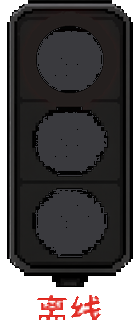
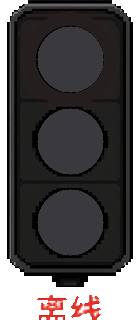
Recolour the whole bulb, not just the pure black core
The first pass matched only (0,0,0). Each bulb carries a two-to-three pixel rim
of dark-but-not-black pixels from the original antialiasing, and that rim stayed
black, so the grey shape read as a chewed, lopsided circle rather than a lens.

It now works from the three known centres and a radius of 33, recolouring anything
inside a bulb that is dark at all. Verified per state: no dark pixels remain inside
any bulb circle, and the lit bulb is left untouched apart from a handful of edge
pixels.

diff --git a/tools/recolor_unlit.py b/tools/recolor_unlit.py
@@ -1,12 +1,15 @@
 #!/usr/bin/env python3
 """把「没亮的灯泡」从纯黑改成深灰。
 
-原来是纯黑 (0,0,0)，和灯罩边框的暗色几乎融在一起，看不出那里是个灯泡。
-改成偏冷的深灰，既不像亮着，又能看出灯泡的形状。
+灯罩是暖调的深灰 (36,31,30)，原来未亮的灯泡是纯黑，两者几乎融在一起。
 
-做法：按行投影找出「大片纯黑」的团块（就是没亮的灯泡），
-      用质心 + 半径把它圈出来，只在这个圆里改色。
-      边框、阴影那些零散的纯黑不受影响。
+⚠ 第一版只改精确的 (0,0,0)，结果灯泡边缘有一圈「深灰但不是纯黑」的
+抗锯齿像素（(8,7,7)、(2,2,2) 之类）留了下来 —— 视觉上就像一颗被啃掉边的圆，
+也就是「灯泡变形」。所以这里改成按【圆形范围 + 暗度】判定：
+在灯泡圆内、且足够暗的像素，全部统一成同一个灰。
+
+灯泡位置是固定的三个圆心，半径按实测：
+    中心 x=70   y=59 / 141 / 222   半径 33
 """
 
 from __future__ import annotations
@@ -16,52 +19,34 @@ import sys
 import numpy as np
 from PIL import Image
 
-BULB_GREY = (58, 58, 62)   # 偏冷的深灰，跟暖色调灯罩拉开一点
-MIN_BLOB_ROWS = 20         # 连续这么高的黑区才算灯泡
-THRESHOLD = 128            # alpha 阈值
+BULB_GREY = (58, 58, 62)    # 偏冷深灰，和暖调灯罩拉开层次
+BULB_CENTERS = [(70, 59), (70, 141), (70, 222)]
+BULB_RADIUS = 33
+DARK_MAX = 70               # 三通道最大值低于它算「灯泡的暗部」
+THRESHOLD = 128             # alpha 阈值
 
 
 def recolor(im: Image.Image) -> tuple[Image.Image, int]:
     a = np.array(im.convert("RGBA"))
     h, w, _ = a.shape
-    rgb = a[:, :, :3]
-    black = (rgb[:, :, 0] == 0) & (rgb[:, :, 1] == 0) & (rgb[:, :, 2] == 0) & (a[:, :, 3] > THRESHOLD)
-
-    rows = black.sum(axis=1)
-    # 找连续的行区间（每行黑像素足够多才算灯泡的一部分）
-    blobs = []
-    run_start = None
-    for y in range(h):
-        heavy = rows[y] > w * 0.10
-        if heavy and run_start is None:
-            run_start = y
-        elif not heavy and run_start is not None:
-            if y - run_start >= MIN_BLOB_ROWS:
-                blobs.append((run_start, y - 1))
-            run_start = None
-    if run_start is not None and h - run_start >= MIN_BLOB_ROWS:
-        blobs.append((run_start, h - 1))
+    rgb = a[:, :, :3].astype(np.int16)
+    dark = (rgb.max(axis=2) < DARK_MAX) & (a[:, :, 3] > THRESHOLD)
 
     changed = 0
-    for y0, y1 in blobs:
-        strip = black[y0:y1 + 1]
-        ys, xs = np.nonzero(strip)
-        if len(ys) == 0:
-            continue
-        cy = y0 + ys.mean()
-        cx = xs.mean()
-        radius = (len(ys) / np.pi) ** 0.5 * 1.06   # 按面积估半径，留一点余量
-
-        yy, xx = np.mgrid[0:h, 0:w]
-        inside = ((yy - cy) ** 2 + (xx - cx) ** 2) <= radius ** 2
-        target = black & inside
+    for cx, cy in BULB_CENTERS:
+        y0, y1 = max(0, cy - BULB_RADIUS - 1), min(h, cy + BULB_RADIUS + 2)
+        x0, x1 = max(0, cx - BULB_RADIUS - 1), min(w, cx + BULB_RADIUS + 2)
+        yy, xx = np.mgrid[y0:y1, x0:x1]
+        inside = ((yy - cy) ** 2 + (xx - cx) ** 2) <= BULB_RADIUS ** 2
+        target = inside & dark[y0:y1, x0:x1]
         n = int(target.sum())
         if n:
-            a[target, 0] = BULB_GREY[0]
-            a[target, 1] = BULB_GREY[1]
-            a[target, 2] = BULB_GREY[2]
+            region = a[y0:y1, x0:x1]
+            region[target, 0] = BULB_GREY[0]
+            region[target, 1] = BULB_GREY[1]
+            region[target, 2] = BULB_GREY[2]
             changed += n
-        print(f"    团块 y={y0}..{y1}  中心=({cx:.0f},{cy:.0f})  半径={radius:.0f}  改色 {n} 像素")
+        print(f"    中心({cx},{cy})  半径{BULB_RADIUS}  改色 {n} 像素")
 
     return Image.fromarray(a), changed
 
@@ -78,7 +63,7 @@ def main() -> None:
         print(f"  {n}:")
         out, changed = recolor(im)
         out.save(path)
-        print(f"    合计 {changed} 像素 → {BULB_GREY}")
+        print(f"    合计 {changed}")
 
 
 if __name__ == "__main__":
